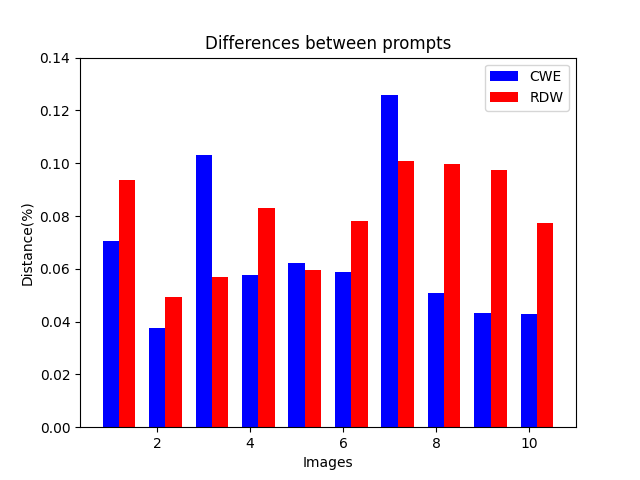
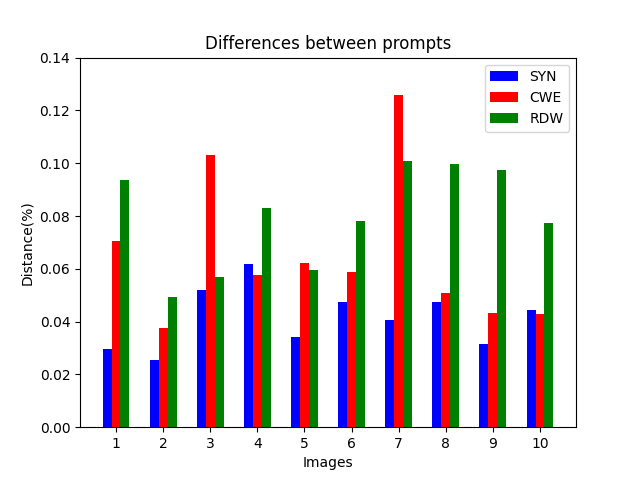
update

Changed region(s): [[0.1562, 0.1875, 0.875, 0.9375], [0.75, 0.125, 0.9062, 0.2812]]

diff --git a/Final/compute_difference.py b/Final/compute_difference.py
@@ -18,9 +18,10 @@ load_dotenv()
 refs = []
 cands_CWE = []
 cands_RDW = []
+cands_SYN = []
 
 # Load data from JSON file
-with open('Results/data.json', 'r') as f:
+with open('Results/datas/data.json', 'r') as f:
     json_data = json.load(f)
     
 # Populate lists with data from JSON
@@ -28,32 +29,43 @@ for key, value in json_data.items():
     refs.append(value["p"])
     cands_CWE.append(value["CWE_p"])
     cands_RDW.append(value["RDW_p"])
+    cands_SYN.append(value["SYN_p"])
 
 # Calculate BERTScore for CWE prompts
 P_CWE, R_CWE, F1_CWE = score(cands_CWE, refs, lang='en', verbose=True)
-with open('Results/F1_similarity_CWE.npy', 'wb') as f:
+with open('Results/datas/F1_similarity_CWE.npy', 'wb') as f:
     np.save(f, F1_CWE)
 distance_F1_CWE = [1 - F1 for F1 in F1_CWE]
-with open('Results/F1_distance_CWE.npy', 'wb') as f:
+with open('Results/datas/F1_distance_CWE.npy', 'wb') as f:
     np.save(f, distance_F1_CWE)
     
 # Calculate BERTScore for RDW prompts
 P_RDW, R_RDW, F1_RDW = score(cands_RDW, refs, lang='en', verbose=True)
-with open('Results/F1_similarity_RDW.npy', 'wb') as f:
+with open('Results/datas/F1_similarity_RDW.npy', 'wb') as f:
     np.save(f, F1_RDW)
 distance_F1_RDW = [1 - F1 for F1 in F1_RDW]
-with open('Results/F1_distance_RDW.npy', 'wb') as f:
+with open('Results/datas/F1_distance_RDW.npy', 'wb') as f:
     np.save(f, distance_F1_RDW)
+
+# Calculate BERTScore for SYN prompts
+P_SYN, R_SYN, F1_SYN = score(cands_SYN, refs, lang='en', verbose=True)
+with open('Results/datas/F1_similarity_SYN.npy', 'wb') as f:
+    np.save(f, F1_SYN)
+distance_F1_SYN = [1 - F1 for F1 in F1_SYN]
+with open('Results/datas/F1_distance_SYN.npy', 'wb') as f:
+    np.save(f, distance_F1_SYN)
     
 # Load F1 scores and distances
-with open('Results//F1_distance_CWE.npy', 'rb') as f1, open('Results/F1_distance_RDW.npy', 'rb') as f2:
+with open('Results/datas/F1_distance_CWE.npy', 'rb') as f1, open('Results/datas/F1_distance_RDW.npy', 'rb') as f2, open('Results/datas/F1_distance_SYN.npy', 'rb') as f3:
     a = np.load(f1)
     b = np.load(f2)
-print(f"CWE: {a}, \nRDW: {b}")
+    c = np.load(f3)
+print(f"CWE: {a}, \nRDW: {b}, \nSYN: {c}")
 
 # Lists to store image similarities and distances
 image_similarity_CWE = []
 image_similarity_RDW = []
+image_similarity_SYN = []
 num_prompts = int(os.getenv('NUM_PROMPTS'))
 cos = torch.nn.CosineSimilarity(dim=0)
 
@@ -63,6 +75,7 @@ for i in range(num_prompts):
     refs_image = f"new_image/{folder_name}/origin.webp"
     CWE_image = f"new_image/{folder_name}/CWE.webp"
     RDW_image = f"new_image/{folder_name}/RDW.webp"
+    SYN_image = f"new_image/{folder_name}/SYN.webp"
     
     refs_preprocess = preprocess(Image.open(refs_image)).unsqueeze(0).to(device)
     refs_features = model.encode_image(refs_preprocess)
@@ -72,6 +85,9 @@ for i in range(num_prompts):
 
     RDW_preprocess = preprocess(Image.open(RDW_image)).unsqueeze(0).to(device)
     RDW_features = model.encode_image(RDW_preprocess)
+
+    SYN_preprocess = preprocess(Image.open(SYN_image)).unsqueeze(0).to(device)
+    SYN_features = model.encode_image(SYN_preprocess)
     
     # Calculate cosine similarity between reference and image features
     similarity_CWE = cos(refs_features[0], CWE_features[0]).item()
@@ -80,26 +96,36 @@ for i in range(num_prompts):
     similarity_RDW = cos(refs_features[0], RDW_features[0]).item()
     similarity_RDW = (similarity_RDW + 1) / 2
     
+    similarity_SYN = cos(refs_features[0], SYN_features[0]).item()
+    similarity_SYN = (similarity_SYN + 1) / 2
+    
     image_similarity_CWE.append(similarity_CWE)
     image_similarity_RDW.append(similarity_RDW)
+    image_similarity_SYN.append(similarity_SYN)
     
     distance_image_CWE = [1 - F for F in image_similarity_CWE]
     distance_image_RDW = [1 - F for F in image_similarity_RDW]
+    distance_image_SYN = [1 - F for F in image_similarity_SYN]
 
 # Save results to files
-with open('Results/image_similarity_CWE.npy', 'wb') as f:
+with open('Results/datas/image_similarity_CWE.npy', 'wb') as f:
     np.save(f, image_similarity_CWE)
-with open('Results/image_similarity_RDW.npy', 'wb') as f:
+with open('Results/datas/image_similarity_RDW.npy', 'wb') as f:
     np.save(f, image_similarity_RDW)
-with open('Results/image_distance_CWE.npy', 'wb') as f:
+with open('Results/datas/image_similarity_SYN.npy', 'wb') as f:
+    np.save(f, image_similarity_SYN)
+with open('Results/datas/image_distance_CWE.npy', 'wb') as f:
     np.save(f, distance_image_CWE)
-with open('Results/image_distance_RDW.npy', 'wb') as f:
+with open('Results/datas/image_distance_RDW.npy', 'wb') as f:
     np.save(f, distance_image_RDW)
+with open('Results/datas/image_distance_SYN.npy', 'wb') as f:
+    np.save(f, distance_image_SYN)
 
-with open('Results/image_distance_CWE.npy', 'rb') as f1, open('Results/image_distance_RDW.npy', 'rb') as f2:
+with open('Results/datas/image_distance_CWE.npy', 'rb') as f1, open('Results/datas/image_distance_RDW.npy', 'rb') as f2, open('Results/datas/image_distance_SYN.npy', 'rb') as f3:
     a = np.load(f1)
     b = np.load(f2)
-print(f"\nCWE: {a}, \nRDW: {b}")
+    c = np.load(f3)
+print(f"\nCWE: {a}, \nRDW: {b}, \nSYN: {c}")
 
 def plot(data, title, y_range, save):
     plt.bar(range(1, 11), data)
@@ -110,15 +136,19 @@ def plot(data, title, y_range, save):
     plt.savefig(f"{save}.png", format='png')
     plt.close()
 
-def plot_combine(data, data2, title, y_range, save):
-    width = 0.35
+def plot_combine(data, data2, data3, title, y_range, save):
+    width = 0.2
+    gap = 0.05
     ind = range(1, len(data) + 1)
-    plt.bar(ind, data, width, label='CWE', color='blue')
-    plt.bar([p + width for p in ind], data2, width, label='RDW', color='red')
+    ind = [x + (x-1)*gap for x in ind]
+    plt.bar([x - width for x in ind], data, width, label='SYN', color='blue')
+    plt.bar(ind, data2, width, label='CWE', color='red')
+    plt.bar([x + width for x in ind], data3, width, label='RDW', color='green')
     plt.legend()
     plt.title(title)
     plt.xlabel("Images")
     plt.ylabel("Distance(%)")
+    plt.xticks([x for x in ind], [f'{i+1}' for i in range(len(data))])
     plt.ylim(0, y_range)
     plt.savefig(f"{save}.png", format='png')
     plt.close()
@@ -129,6 +159,8 @@ plot(distance_F1_CWE, "Differences between Original and ContextualWordEmbsAug pr
 plot(distance_F1_RDW, "Differences between Original and RandomWordAug prompts", 0.12, "Results/distant_RDW_prompt")
 plot(distance_image_CWE, "Differences between Original and ContextualWordEmbsAug images", 0.12, "Results/distant_CWE_images")
 plot(distance_image_RDW, "Differences between Original and RandomWordAug images", 0.22, "Results/distant_RDW_images")
+plot(distance_F1_SYN, "Differences between Original and Synonym prompts", 0.08, "Results/distant_SYN_prompt")
+plot(distance_image_SYN, "Differences between Original and Synonym images", 0.14, "Results/distant_SYN_images")
 
-plot_combine(distance_F1_CWE, distance_F1_RDW, "Differences between prompts", 0.14, "Results/distant_prompts")
-plot_combine(distance_image_CWE, distance_image_RDW, "Differences between images", 0.22, "Results/distant_images")
+plot_combine(distance_F1_SYN, distance_F1_CWE, distance_F1_RDW, "Differences between prompts", 0.14, "Results/distant_prompts")
+plot_combine(distance_F1_SYN, distance_image_CWE, distance_image_RDW, "Differences between images", 0.22, "Results/distant_images")

diff --git a/Final/generate_image.py b/Final/generate_image.py
@@ -70,6 +70,11 @@ def augmenter_RandomWordAug(text):
     augmented_text = aug.augment(text)
     return augmented_text
 
+def augmenter_Synonym(text): 
+    aug = naw.SynonymAug(aug_src='wordnet')
+    augmented_text = aug.augment(text)
+    return augmented_text
+
 def get_url(client,prompt):
     response = client.images.generate(
         model="dall-e-3",
@@ -89,7 +94,7 @@ def main():
     client = OpenAI(api_key=os.getenv('OPENAI_API_KEY'))
     dict = {}
     
-    i = 11
+    i = 0
     for image_name, prompt in random_prompts.items():
         print(f"\n===============================Image{i}============================================\n")
         save_path = f'new_image/image{i}'
@@ -101,27 +106,32 @@ def main():
             # Get new prompt
             new_prompt_ContextualWordEmbsAug = augmenter_ContextualWordEmbsAug(prompt)[0]
             new_prompt_RandomWordAug = augmenter_RandomWordAug(prompt)[0]
-            
+            new_prompt_Synonym = augmenter_Synonym(prompt)[0]
+                
             # Get new image
             image_url_origin = get_url(client, prompt)
             image_url_ContextualWordEmbsAug = get_url(client, new_prompt_ContextualWordEmbsAug)
             image_url_RandomWordAug = get_url(client, new_prompt_RandomWordAug)
+            image_url_Synonym = get_url(client, new_prompt_Synonym)
             
             # Save new image
             download_image(image_url_origin, f'{save_path}/origin.webp')
-            download_image(image_url_ContextualWordEmbsAug, f'{save_path}/ContextualWordEmbsAug.webp')
-            download_image(image_url_RandomWordAug, f'{save_path}/RandomWordAug.webp')
+            download_image(image_url_ContextualWordEmbsAug, f'{save_path}/CWE.webp')
+            download_image(image_url_RandomWordAug, f'{save_path}/RDW.webp')
+            download_image(image_url_Synonym, f'{save_path}/SYN.webp')
             
             # Print prompts
             print(f"Origin:                {prompt} \n")
             print(f"ContextualWordEmbsAug: {new_prompt_ContextualWordEmbsAug} \n")
-            print(f"RandomWordAug:         {new_prompt_RandomWordAug}")
+            print(f"RandomWordAug:         {new_prompt_RandomWordAug} \n")
+            print(f"Synonym:               {new_prompt_Synonym}")
             
             # Save
             dict[f"image{i}"] = {
                 "p": prompt,
                 "CWE_p": new_prompt_ContextualWordEmbsAug,
                 "RDW_p": new_prompt_RandomWordAug,
+                "SYN_p": new_prompt_Synonym,
                 "path": f"new_image/image{i}",
                 "b_img": image_name
             }
@@ -132,7 +142,7 @@ def main():
         except Exception as e:
             print(f"An unexpected error occurred: {e}")
         i = i + 1
-    with open('Results/data.json', 'w') as file:
+    with open('Results/datas/data.json', 'w') as file:
         json.dump(dict, file, indent=4)
 if __name__ == '__main__':
     main()
